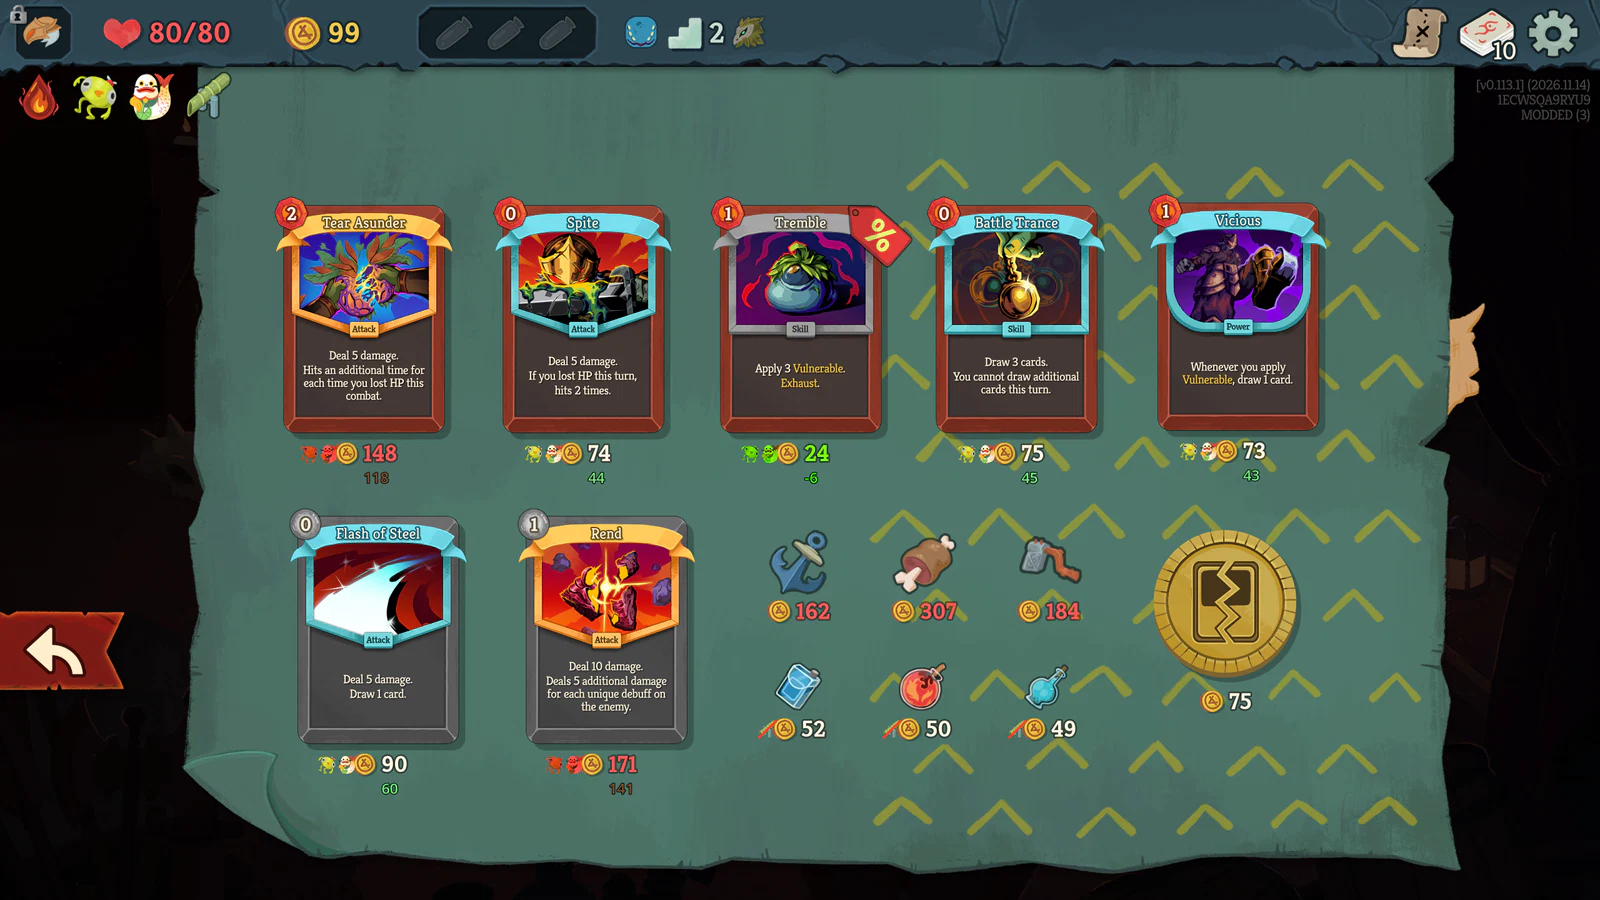
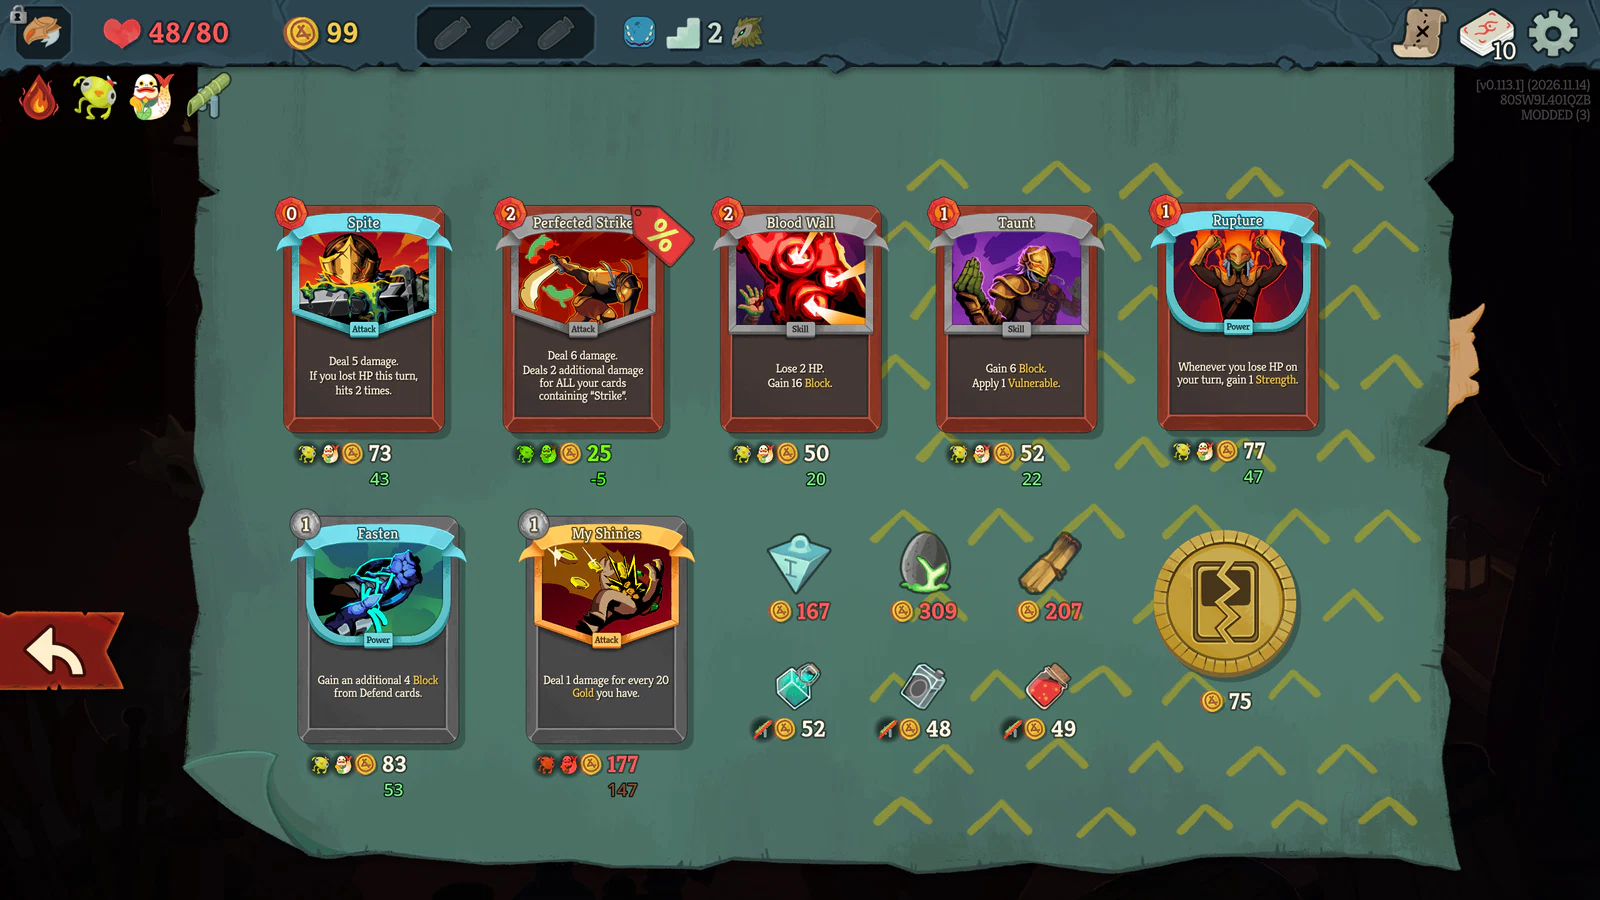
Examples from plausible runs
The front image is now turn 2 against Byrdonis (an act 1 elite) on floor 7,
with Neow's Large Capsule (Pen Nib, Letter Opener and its Strike and Defend),
the reward cards in the deck, 146 gold, one potion and HP missing. Every fight
uses its own act's background, sets a floor that fits, and has HP missing on
both sides. Warnings: the toad on turn 2 with Footwork and Permafrost. Curl Up
on turn 2 in act 2 with Ball Lightning and Zap+. Imbalanced from two Defends
played. Death Skull on turn 3. Card Indicators fully blocked, with Burst+.
Shuffle Warning on turn 3. Relic Counters: Pen Nib 6, Stone Calendar 3,
Ornamental Fan 2.

New capture steps: floor, relics-only and relic-counter.

diff --git a/capture/SpireQoLCapture/CaptureRunner.cs b/capture/SpireQoLCapture/CaptureRunner.cs
@@ -206,6 +206,9 @@ public sealed class CaptureRunner
             case "hp": await SetHp(t); break;
             case "endturn": await EndTurn(); break;
             case "play": await Play(t); break;
+            case "floor": await SetFloor(int.Parse(t[1])); break;
+            case "relics-only": await RelicsOnly(t.Skip(1)); break;
+            case "relic-counter": await RelicCounter(t[1], t[2], int.Parse(t[3])); break;
             case "close-modals": NModalContainer.Instance?.Clear(); await Frames(5); break;
             case "shot": await Shot(scene, t.Skip(1).ToArray()); break;
             default: await Console(line.Text); break;
@@ -264,6 +267,54 @@ public sealed class CaptureRunner
         await Until(() => !PileType.Hand.GetPile(Me).Cards.Contains(card), $"{id} to leave the hand");
         await Until(() => !RunManager.Instance.ActionExecutor.IsRunning, $"{id} to resolve");
         await Seconds(1.0);
+    }
+
+    /// <summary>
+    /// floor N: the floor the top bar shows (the run's map history, which the game counts), as if the run had
+    /// come that far. Use it after the room is entered: the top bar refreshes here.
+    /// </summary>
+    private static async Task SetFloor(int floor)
+    {
+        var run = RunManager.Instance.DebugOnlyGetState() ?? throw new Exception("no run");
+        var field = typeof(RunState).GetField("_mapPointHistory", System.Reflection.BindingFlags.Instance | System.Reflection.BindingFlags.NonPublic)
+                    ?? throw new Exception("RunState._mapPointHistory not found");
+        var history = (List<List<MegaCrit.Sts2.Core.Runs.History.MapPointHistoryEntry>>)field.GetValue(run)!;
+        if (history.Count == 0) history.Add(new());
+        var act = history[^1];
+        var others = history.Take(history.Count - 1).Sum(h => h.Count);
+        while (others + act.Count < floor) act.Insert(0, new MegaCrit.Sts2.Core.Runs.History.MapPointHistoryEntry(MegaCrit.Sts2.Core.Map.MapPointType.Monster, run));
+        while (others + act.Count > floor && act.Count > 1) act.RemoveAt(0);
+        foreach (var icon in FindAll<MegaCrit.sts2.Core.Nodes.TopBar.NTopBarFloorIcon>(Tree.Root))
+            icon.GetType().GetMethod("UpdateIcon", System.Reflection.BindingFlags.Instance | System.Reflection.BindingFlags.NonPublic)?.Invoke(icon, null);
+        await Frames(3);
+    }
+
+    /// <summary>relics-only A B...: removes every relic you have that isn't listed (a Neow relic's random picks, say).</summary>
+    private static async Task RelicsOnly(IEnumerable<string> keep)
+    {
+        var ids = keep.Select(k => k.ToUpperInvariant()).ToHashSet();
+        foreach (var relic in Me.Relics.ToList())
+            if (!ids.Contains(relic.Id.Entry)) await RelicCmd.Remove(relic);
+        await Frames(5);
+    }
+
+    /// <summary>relic-counter &lt;RELIC_ID&gt; &lt;Property&gt; &lt;value&gt;: sets a relic's own count (Pen Nib's AttacksPlayed), which carries between fights.</summary>
+    private static async Task RelicCounter(string id, string property, int value)
+    {
+        var relic = Me.Relics.FirstOrDefault(r => r.Id.Entry == id.ToUpperInvariant()) ?? throw new Exception($"no relic {id}");
+        var prop = relic.GetType().GetProperty(property, System.Reflection.BindingFlags.Instance | System.Reflection.BindingFlags.Public | System.Reflection.BindingFlags.NonPublic)
+                   ?? throw new Exception($"{id} has no {property}");
+        prop.SetValue(relic, value);
+        await Frames(3);
+    }
+
+    private static IEnumerable<T> FindAll<T>(Node n) where T : Node
+    {
+        foreach (var child in n.GetChildren(true))
+        {
+            if (child is T t) yield return t;
+            foreach (var d in FindAll<T>(child)) yield return d;
+        }
     }
 
     private static int _endTurnFrom;

diff --git a/README.md b/README.md
@@ -66,7 +66,7 @@ caption Each tab is a power or relic that playing the card sets off right now.
 shot proc-tabs hand pad 30
 ```
 
-Ids are the game's model ids (class names in SCREAMING_SNAKE_CASE: `TrueGrit` is `TRUE_GRIT`). Keep examples realistic: a character's starter cards mixed with the cards that show the feature, set up with real plays over a turn or two, against enemies that really have the mechanic (the Spiny Toad's thorns, the Louse Progenitor's Curl Up).
+Ids are the game's model ids (class names in SCREAMING_SNAKE_CASE: `TrueGrit` is `TRUE_GRIT`). Keep examples realistic, as a run could really be: a Neow relic, relics, cards, gold and potions that fit the floor; the fight's own act (`act OVERGROWTH`/`UNDERDOCKS` for act 1, `HIVE` for act 2, `GLORY` for act 3) so the background matches; HP missing on both sides (set `hp player` after `wait combat-started`: changing the act heals you); a turn or two of real plays so counters, powers and orbs stand partway; and enemies that really have the mechanic (the Spiny Toad's thorns, the Louse Progenitor's Curl Up). Cropped shots can be looser than full-screen ones.
 
 Directives (everything else goes to the game's dev console as the local player: `fight`, `relic add`, `power`, `potion`, `energy`, `block`, `damage`, `enchant <id> <amount> <hand index>`, `event`, `room Shop|RestSite|...`, `kill`, `heal`...):
 
@@ -80,6 +80,9 @@ Directives (everything else goes to the game's dev console as the local player: 
 | `clear-hand`, `clear-pile <Pile>`, `move-pile <From> <To>` | empties or moves a pile |
 | `hp player <n>`, `hp enemy <i> <n>` | sets HP |
 | `play <CARD_ID> [enemy N]` | plays that card from your hand the way the game does when you drop it (energy, targeting, every hook), and waits for it to resolve. Set up states this way so counters, powers and orbs come from real plays |
+| `floor N` | the floor the top bar shows (after the room is entered) |
+| `relics-only A B...` | removes every relic not listed (a Neow relic's random picks) |
+| `relic-counter <RELIC_ID> <Property> <value>` | sets a relic's own count that carries between fights (`PEN_NIB AttacksPlayed 6`) |
 | `endturn` | ends your turn (follow with `wait turn-started`) |
 | `card-reward [A B C]` | opens a card reward with these cards (or three random ones) |
 | `hover <region>`, `click <region>`, `key <Godot key name>` | real input: `hover intent 1`, `click text Guide`, `key F10` |
